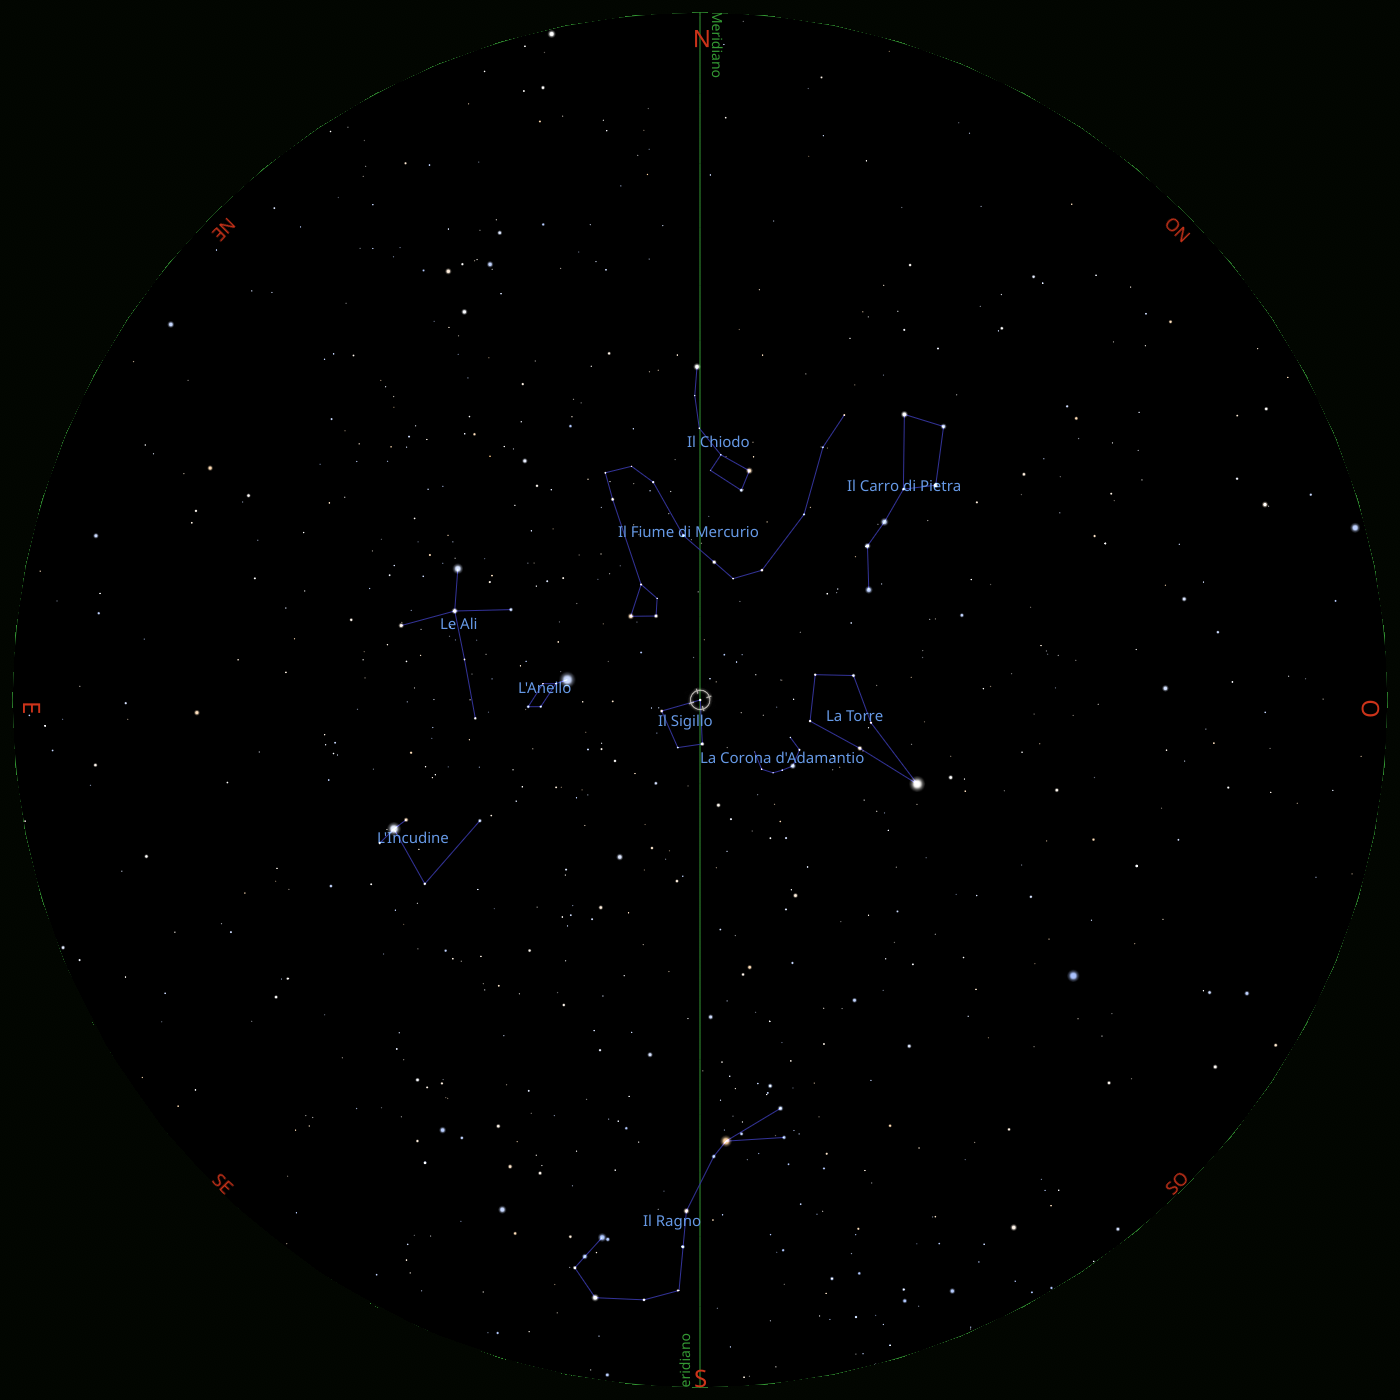
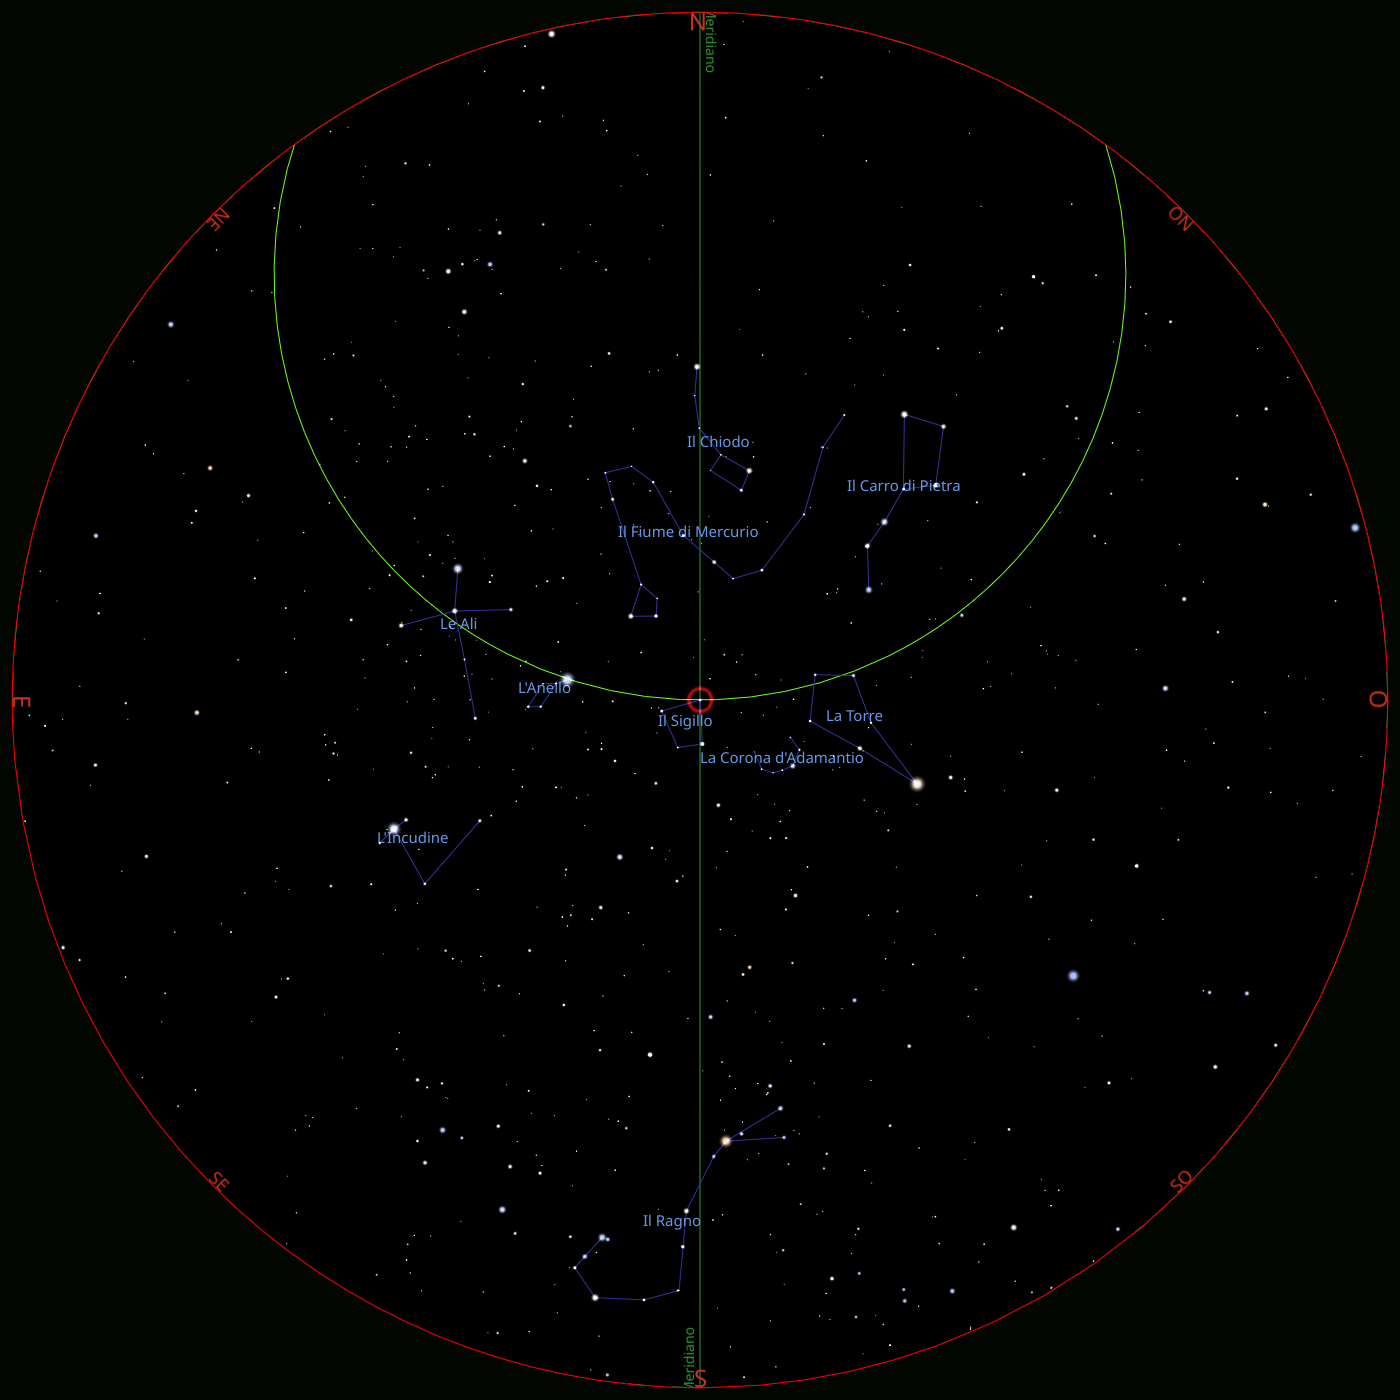
Carta del cielo di Zalkatar con Stellarium 26.2: segno fisso e parallelo del Sigillo
La cultura del cielo passa al formato index.json (la 26.2 rifiuta i .fab),
la stella-chiave ha un segno fisso al posto della selezione animata (due
lanci: 619 pixel diversi su main, 0 qui) e il plugin ArchaeoLines traccia
il parallelo del Sigillo, scelto dal DM sulla card. Handout 7, PROVENIENZA,
RICERCA §3.1, CHANGELOG e MS-0114.

Claude-Session: https://claude.ai/code/session_01KdRg4GgYVS5JNtwe8bvZrw

diff --git a/plans/CHANGELOG.md b/plans/CHANGELOG.md
@@ -910,3 +910,4 @@
 | 2026-11-13 | DRAPPO-DI-TARSILIA-STANDALONE-PF1E | Voce B3 della ricerca sul modulo pubblicabile: le carte da tavolo del Drappo, fatte prima della serata per scelta del DM («Subito» sulla card, contro la consigliata di aspettare una corsa giocata). Un capitolo `"layout": "carte"` si impagina con `scripts/typst/carte-tavolo.typ`: 36 carte 63 × 88 mm, nove per foglio A4 (otto segnaposto delle contrade con la griglia delle Lunghezze, ordine alle funi 1-7 e di rincorsa, i nove tratti della Ruota con la CD, i sei posti dei PG, cinque patti in bianco). I dati li legge `scripts/dmcore/carte_tavolo.py` dalle tabelle di REGOLE-DELLA-CORSA-PF1E e CONTRADE-DI-TARSILIA; un master che cambia forma ferma la lettura. Gli stemmi perdono alla lettura le scritte del Palio. Misura contro main: carte da tavolo stampabili 0 → 36; veraPDF 1.28.2 sul PDF delle carte PDF/UA-1 e PDF/A-2a conformi, 0 controlli falliti; `misura_stampa` sulle carte 0 errori sotto i tetti (corpo mediano 7,5 pt, ripetizioni 65% per costruzione: è un mazzo); gli altri booklet non cambiano. Limite dichiarato: disegnate senza i tempi di una serata, da rivedere dopo la prima. | `10-stand-alone/Il-Drappo-di-Tarsilia/homebrew/DRAPPO-CARTE-DA-TAVOLO.manifest.json`; `scripts/typst/carte-tavolo.typ`; `scripts/dmcore/carte_tavolo.py`; `scripts/tests/test_carte_tavolo.py`; [MEMORIA-STORICA.md](MEMORIA-STORICA.md) | In PR |
 | 2026-11-13 | CHIUSURA-CATENA-EDITORIALE | ADR-0132: le copie delle immagini tengono la dichiarazione di provenienza. `provenienza_immagini.py` legge la sorgente digitale dal manifesto C2PA firmato del master e la scrive nella copia `web/*.jpg` come XMP IPTC (`Iptc4xmpExt:DigitalSourceType`), con nome e SHA-256 del master, senza ricomprimere; `build_image_derivatives` la mette da sé; senza manifesto firmato la copia resta senza | ADR-0132 (estende ADR-0019) · `plans/esperimenti/provenienza-immagini-2026-11-13/` · `scripts/tests/test_provenienza_immagini.py` | ✅ copie con master firmato che dichiarano la sorgente 0 → 28 su 28; immagini JPEG nei 20 booklet PDF 0 → 36 su 89, in 8 booklet (i cinque del Drappo al completo); pixel delle 52 copie identici, pagine 985 = 985; 24 copie restano senza perché l'origine non è firmata; l'etichetta nella copia non è firmata, la prova resta il master |
 | 2026-11-14 | STANDARD-SCHEDE | ADR-0091, le voci che mancavano nelle schede di ARC07-DEF-4. Dopo l'ordine (riga del 2026-11-13), sei schede prendono Linguaggi, Qualità speciali e «Altro equipaggiamento»: Zog'tar, le guardie, il sacerdote dell'orda, Durin, l'orco della ronda, gli hobgoblin della pattuglia. Si scrive solo ciò che la scheda usa già nei conti o che l'SRD 3.5 dà alla razza: linguaggi automatici (hobgoblin Comune e Goblin, orco Comune e Orchesco, nano Comune e Nanico), scurovisione 18 m a tre schede di hobgoblin che non l'avevano, sensibilità alla luce dell'orco, cuoio borchiato e scudo leggero delle voci SRD di orco e hobgoblin (la CA coincide). Non toccati: Balvar, i due Skullcrusher, worg, treant, wyvern. Restano al DM su card: i linguaggi in più di Zog'tar e del sacerdote, la razza ibrida di Zog'tar, Durin sopra il valore del 6° livello. Il DM ha accettato sulla card (2026-11-14) che la serata passi da 125 a 126 pagine e Notte e Alba da 158 a 159, con la scheda di Balvar su due pagine (il tetto `schede_spezzate` a 1 dei due manifest è entrato con la PR delle cinque decisioni del 13/11). Righe ferme dell'audit corrette: STATO-E-ORDINE (P09 e inventario Gemini), casella VOL-3 | `07_il Portale Della Forgia Eterna/ARC07-DEF-4-VIAGGIO-MILLE-ANNI.md` · `docs/audit/stampa-booklet.json` · `plans/adr/ADR-0091-la-scheda-del-png-ha-una-forma.md` | `verifica_scheda.py Bestiario 0*/`: 33 violazioni e 374 non verificabili, come su main (la verifica `ricchezza` non legge ancora «Altro equipaggiamento»); due pagine in più in tutto, una per ciascuno dei due booklet della notte |
+| 2026-11-14 | RICERCA-TOOL-LGM-2026 | §3.1, la carta del cielo passa a Stellarium 26.2 (richiesta di Jfs: aggiornare se il risultato migliora e si misura). La cultura del cielo `rumblingstone` passa al formato `index.json` (la 26.2 non legge più i `.fab` della #422); la stella-chiave ha un segno fisso (`MarkerMgr`) al posto della selezione animata; il plugin ArchaeoLines traccia il parallelo del Sigillo (declinazione 38,922), scelto dal DM sulla card del 2026-11-14, e l'handout 7 lo spiega (la stella più luminosa dell'Anello ci sta sopra). PROVENIENZA con i passi della 26.2: AppImage ufficiale, luogo fisso, aggiornamenti e ricerca in rete spenti (senza, Stellarium resta appeso alla chiusura). Stellarium resta fuori dalle dipendenze. | `09_…/Immagini-Handout/carta-del-cielo/` · `09_Continuazione Arco Narrativo dopo Battaglia di Hammerfist/Arco-Post-Hammerfist-HANDOUTS.md` · `plans/RICERCA-TOOL-LGM-2026.md` | Due lanci dello stesso script: 619 pixel diversi su main (23.4, segno animato) contro 0 (26.2, segno fisso); stella-chiave al centro esatto in tutte e due (scarto 0,0 px); variante da stampa identica byte per byte fra due lanci. Il parallelo non ha misura: è una scelta del DM. |

diff --git a/plans/MEMORIA-STORICA.md b/plans/MEMORIA-STORICA.md
@@ -1308,3 +1308,15 @@ repo scritto con altre parole.
 - **Testo:** seconda PR della scelta del DM «Voci mancanti, ordine PF1e» (2026-11-13). Linguaggi, Qualità speciali e «Altro equipaggiamento» in sei schede, solo da ciò che la scheda usa già o che l'SRD 3.5 dà alla razza. La serata Notte e Alba passa da 125 a 126 pagine e il booklet completo da 158 a 159: la scheda di Balvar si spezza su due pagine, e il DM l'ha accettato sulla card del 2026-11-14.
 - **Trovato nel repo:** `ADR-0091` → `plans/adr/ADR-0091-la-scheda-del-png-ha-una-forma.md` · `docs/audit/stampa-booklet.json`
 - **Solo qui:** bastano quattro righe in più nelle schede di guardie e sacerdote per spezzare Balvar, prima ancora che le sue tre righe tornino intere. `verifica_scheda` legge l'equipaggiamento solo da una riga che comincia con «Equipaggiamento»: non vede né la voce dentro le Statistiche (la forma di ADR-0091) né «Altro equipaggiamento», quindi la misura di `ricchezza` non si muove; detto al thread delle regole. `linguaggi.toml` ha solo le razze dei PG: per hobgoblin e orco i linguaggi automatici stanno nelle voci dei mostri dell'SRD. Sulla card avevo scritto «due pagine affiancate» senza verificarlo, e l'ho corretto subito dopo. La riga 994 di questo file è storia e non si corregge, anche dove l'audit del 2026-11-13 la trova superata. Nella stessa PR le righe ferme trovate dall'audit del 2026-11-13: P09 e inventario Gemini in STATO-E-ORDINE, casella VOL-3 del piano di stampa.
+
+### MS-0114 · 2026-11-14 · RICERCA-TOOL-LGM-2026 §3.1: la carta del cielo con Stellarium 26.2
+
+- **Data:** 2026-11-14
+- **PR:** —
+- **ADR:** ADR-0005 ADR-0019
+- **Temi:** arc09 handout immagini indagine
+- **Origine:** riga del 2026-11-14 «§3.1, la carta del cielo passa a Stellarium 26.2» in `plans/CHANGELOG.md`
+- **Testo:** Jfs, 2026-11-14: «usalo e aggiorna Stellarium se migliora il risultato ed il miglioramento è misurabile». Misura: due lanci dello stesso script davano 619 pixel diversi con la 23.4 (la stella-chiave segnata dalla selezione, che è animata) e ne danno 0 con la 26.2 e un segno fisso (`MarkerMgr.markerEquatorial`). Sulla card del 2026-11-14 Jfs ha scelto «Sì, con il parallelo»: il plugin ArchaeoLines traccia la declinazione 38,922, il parallelo della stella-chiave.
+- **Trovato nel repo:** `09_…/Immagini-Handout/carta-del-cielo/PROVENIENZA.txt` · `09_…/Immagini-Handout/carta-del-cielo/carta-del-cielo-zalkatar.ssc` · handout 7 in `Arco-Post-Hammerfist-HANDOUTS.md`
+- **Solo qui:** SkyCultureMaker, il plugin nominato nel §3.1, c'è nella 26.2 ma è solo a finestre: non ha comandi da script, quindi `index.json` è scritto a mano e il plugin non migliora alcuna misura. La 26.2 rifiuta i `.fab` («Failed to find index.json») e non ha più `core.setSkyLanguage`. Senza schermo restava appesa a `quitStellarium` finché in `config.ini` non ci sono il luogo fisso, `automatic_updates_enabled=false` e `flag_search_online=false`. L'AppImage legge `/usr/share/stellarium` se c'è una 23.4 installata da apt. ArchaeoLines accende di suo tutte le sue linee: vanno spente una per una; l'etichetta del parallelo non compare nell'immagine. Fra 23.4 e 26.2 senza segno cambiano circa 25.000 pixel di disegno, senza differenze che si vedano.
+

diff --git a/09_Continuazione Arco Narrativo dopo Battaglia di Hammerfist/Arco-Post-Hammerfist-HANDOUTS.md b/09_Continuazione Arco Narrativo dopo Battaglia di Hammerfist/Arco-Post-Hammerfist-HANDOUTS.md
@@ -209,11 +209,13 @@
 > la carta dice dove la Torre **è già andata**.
 > Un foglio rotondo di pelle sottile, inchiostro bruno, nessuna firma.
 
-![Carta del cielo di Zalkatar: cielo di mezzanotte visto dall'alto, con il meridiano nord-sud, dieci costellazioni con i loro nomi e una stella cerchiata al centro esatto, nel Sigillo](Immagini-Handout/carta-del-cielo/carta-del-cielo-zalkatar-stampa.png)
+![Carta del cielo di Zalkatar: cielo di mezzanotte visto dall'alto, con il meridiano nord-sud, dieci costellazioni con i loro nomi, una stella cerchiata al centro esatto, nel Sigillo, e un cerchio più grande che passa per quella stella e per la stella più luminosa dell'Anello](Immagini-Handout/carta-del-cielo/carta-del-cielo-zalkatar-stampa.png)
 
 > *Le stelle sono puntini d'inchiostro, i nomi in Comune in una grafia piccola e
 > diritta. Una riga taglia il cerchio da nord a sud. Al centro, dove la riga
-> passa, qualcuno ha ripassato tre volte un anello intorno a una stella sola.*
+> passa, qualcuno ha ripassato tre volte un anello intorno a una stella sola.
+> Un secondo cerchio, tirato col compasso, parte da quella stella e gira largo
+> verso nord.*
 
 > **Nota DM: l'indizio a tre strati** (skill `rumblingstone-indagine`).
 > - **Fatto osservabile**: è il cielo di mezzanotte. La riga è il meridiano; il
@@ -234,6 +236,11 @@
 >   Deciso dal DM il 2026-11-14: il passo va **un grado più a sud** del pianoro
 >   della Torre, cioè circa 110 km (tre giorni di marcia a 9 m, quattro a 6 m).
 >   La carta non dipende da questa scelta: se cambia, cambia solo questa riga.
+- **Il cerchio grande** è il parallelo del Sigillo: le stelle che ci stanno sopra
+  passano tutte sopra la testa di chi è nel luogo del passo, una dopo l'altra.
+  Ci sta sopra anche la stella più luminosa dell'**Anello**, che si vede bene
+  anche in una notte velata: per un PG che misura, è la conferma che il cerchio
+  non è un ornamento (Conoscenze (geografia) CD 15 lo capisce a colpo d'occhio).
 > - **Nome**: «il Sigillo si chiude sulla Torre». È il calcolo del rito di
 >   spostamento di Zalkatar, la stessa vibrazione che sente l'Anello di Artemis.
 > - **Perché non si falsifica**: il cielo è lo stesso per tutti. Una copia con

diff --git a/MEMORIA.md b/MEMORIA.md
@@ -85,6 +85,7 @@ Fonte: [`plans/CHANGELOG.md`](plans/CHANGELOG.md), una riga per lotto chiuso.
 
 | Data | Piano | Lotto | Esito |
 |---|---|---|---|
+| 2026-11-14 | RICERCA-TOOL-LGM-2026 | §3.1, la carta del cielo passa a Stellarium 26.2 (richiesta di Jfs: aggiornare… | Due lanci dello stesso script: 619 pixel diversi su main (23.4, segno animato) contro 0 (26.2, segno fisso); stella-chiave al centro esatto in tutte e due (sca… |
 | 2026-11-14 | STANDARD-SCHEDE | ADR-0091, le voci che mancavano nelle schede di ARC07-DEF-4. Dopo l'ordine (rig… | `verifica_scheda.py Bestiario 0*/`: 33 violazioni e 374 non verificabili, come su main (la verifica `ricchezza` non legge ancora «Altro equipaggiamento»); due… |
 | 2026-11-14 | RICERCA-TOOL-LGM-2026 | §3.1, la carta del cielo come handout: handout 7 di ARC-09 «La carta del cielo… | In PR |
 | 2026-11-13 | CHIUSURA-CATENA-EDITORIALE | ADR-0132: le copie delle immagini tengono la dichiarazione di provenienza.… | ✅ copie con master firmato che dichiarano la sorgente 0 → 28 su 28; immagini JPEG nei 20 booklet PDF 0 → 36 su 89, in 8 booklet (i cinque del Drappo al complet… |
@@ -96,12 +97,11 @@ Fonte: [`plans/CHANGELOG.md`](plans/CHANGELOG.md), una riga per lotto chiuso.
 | 2026-11-13 | SISTEMI-DI-GIOCO-PLUGIN | ADR-0126, due decisioni del DM sulle card delle difese (2026-11-13): la RI del… | In PR |
 | 2026-11-13 | SISTEMI-DI-GIOCO-PLUGIN | ADR-0126, lotto 8 seconda parte: capacità speciali, pozioni, pergamene, bacchet… | In PR |
 | 2026-11-13 | SISTEMI-DI-GIOCO-PLUGIN | ADR-0126, lotto 5 quarta parte: il modificatore di livello delle razze senza da… | In PR |
-| 2026-11-13 | SISTEMI-DI-GIOCO-PLUGIN | ADR-0126, lotto 8 prima parte: il valore dell'equipaggiamento.… | In PR |
 
 ## Le misure che si portano dietro
 
 - **Decisioni**: 1 aperte, 323 chiuse (`decisioni_dm.py`).
-- **Memoria storica**: 113 voci, l'ultima MS-0113 del 2026-11-14 (`memoria_storica.py`, ADR-0127).
+- **Memoria storica**: 114 voci, l'ultima MS-0114 del 2026-11-14 (`memoria_storica.py`, ADR-0127).
 - **Prosa**: 11 revisioni applicate, segnalazioni -28, MQM +2.52 punti (`ciclo_prosa.py registro`).
 
 ## Dove vive ogni cosa

diff --git a/plans/RICERCA-TOOL-LGM-2026.md b/plans/RICERCA-TOOL-LGM-2026.md
@@ -194,6 +194,10 @@ Mesa software). Jfs ha scelto sulle card la pista della Torre invisibile, la car
 addosso al mago dei piromanti drow con Sethrax come seconda occasione, e il passo
 della Torre un grado a sud. Handout 7 in `Arco-Post-Hammerfist-HANDOUTS.md`, file e
 provenienza in `09_…/Immagini-Handout/carta-del-cielo/`.
+Lo stesso giorno la carta passa a Stellarium 26.2 (AppImage ufficiale): cultura in
+`index.json`, segno fisso sulla stella-chiave (due lanci identici, prima 619 pixel
+diversi) e parallelo del Sigillo col plugin ArchaeoLines, scelto da Jfs sulla card.
+SkyCultureMaker c'è ma è solo a finestre: non migliora nulla che si misuri.
 
 ### §3.2 · Krita e GIMP: banco del DM, mai passo di catena
 

diff --git a/09_Continuazione Arco Narrativo dopo Battaglia di Hammerfist/Immagini-Handout/carta-del-cielo/cultura-del-cielo/rumblingstone/description.md b/09_Continuazione Arco Narrativo dopo Battaglia di Hammerfist/Immagini-Handout/carta-del-cielo/cultura-del-cielo/rumblingstone/description.md
@@ -1,0 +1,13 @@
+# RumblingStone
+
+## Introduction
+
+Cultura del cielo di RumblingStone: dieci figure con nomi propri del repo sopra le posizioni stellari reali (catalogo Hipparcos). Nessun nome di Faerûn (ADR-0005).
+
+## Description
+
+Usata per la carta del cielo di Zalkatar, handout 7 di ARC-09.
+
+## License
+
+CC BY-SA 4.0
